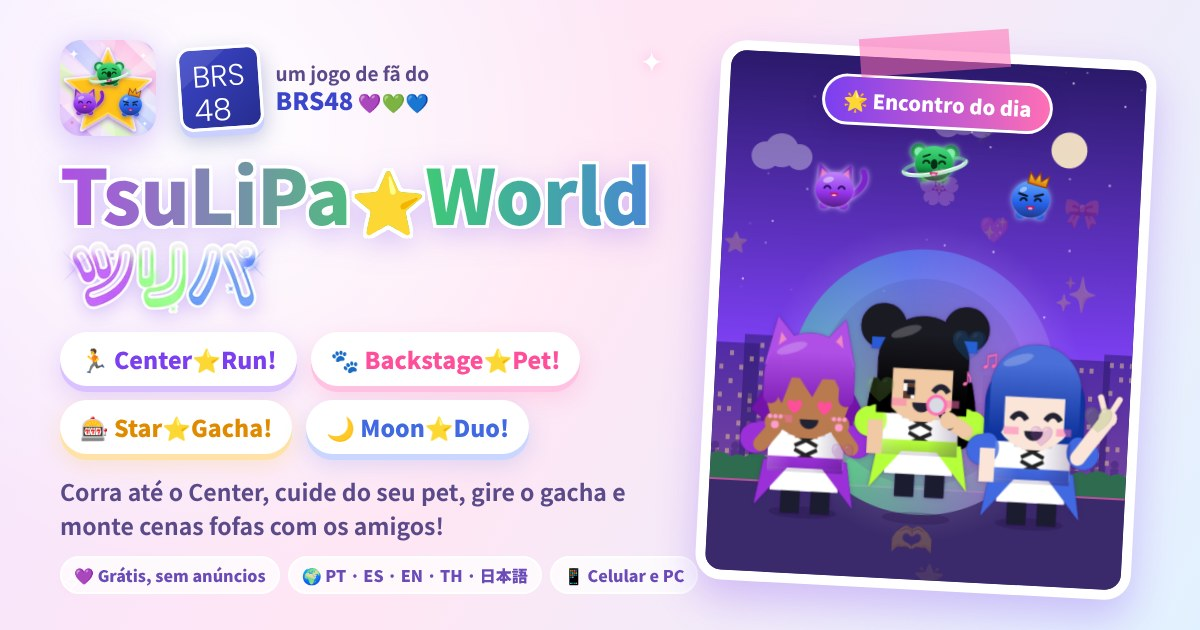
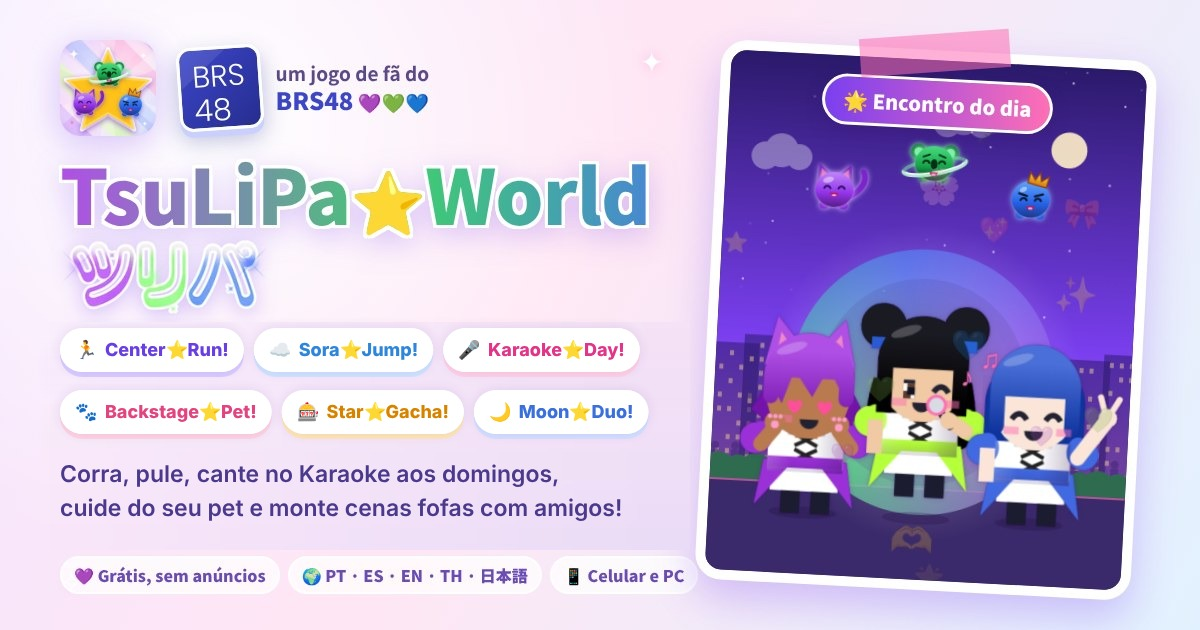
OG: estilo anterior com os 6 modos atuais
Claude-Session: https://claude.ai/code/session_01XGVFxJ3mBe4Ma5WA6JJQdv

Changed region(s): [[0.0308, 0.5127, 0.555, 0.8746]]

diff --git a/sora-jump.html b/sora-jump.html
@@ -23,14 +23,14 @@
 <meta property="og:title" content="TsuLiPa⭐World">
 <meta property="og:description" content="Corra no Center⭐Run!, pule no Sora⭐Jump!, cante no Karaoke⭐Day! ao vivo aos domingos, cuide do seu pet, gire o Star⭐Gacha! e monte cenas no Moon⭐Duo! Um jogo do TsuLiPa (BRS48).">
 <meta property="og:url" content="https://tsulipa-world.vercel.app/">
-<meta property="og:image" content="https://tsulipa-world.vercel.app/og.jpg?v=12">
+<meta property="og:image" content="https://tsulipa-world.vercel.app/og.jpg?v=13">
 <meta property="og:image:width" content="1200">
 <meta property="og:image:height" content="630">
 <meta property="og:locale" content="pt_BR">
 <meta name="twitter:card" content="summary_large_image">
 <meta name="twitter:title" content="TsuLiPa⭐World">
 <meta name="twitter:description" content="Corra, pule, cante e cuide do seu pet com o TsuLiPa: Center⭐Run!, Sora⭐Jump!, Karaoke⭐Day!, Backstage⭐Pet!, Star⭐Gacha! e Moon⭐Duo!">
-<meta name="twitter:image" content="https://tsulipa-world.vercel.app/og.jpg?v=12">
+<meta name="twitter:image" content="https://tsulipa-world.vercel.app/og.jpg?v=13">
 <link rel="manifest" href="manifest.json">
 <meta name="google-site-verification" content="J49ekjyq4BDr6eOcluPFBIOG14ahyJAs0NrObrKJqOs" />
 <title>TsuLiPa⭐World — Sora⭐Jump · Segredo do Disco Voador v19</title>

diff --git a/index.html b/index.html
@@ -23,14 +23,14 @@
 <meta property="og:title" content="TsuLiPa⭐World">
 <meta property="og:description" content="Corra no Center⭐Run!, pule no Sora⭐Jump!, cante no Karaoke⭐Day! ao vivo aos domingos, cuide do seu pet, gire o Star⭐Gacha! e monte cenas no Moon⭐Duo! Um jogo do TsuLiPa (BRS48).">
 <meta property="og:url" content="https://tsulipa-world.vercel.app/">
-<meta property="og:image" content="https://tsulipa-world.vercel.app/og.jpg?v=12">
+<meta property="og:image" content="https://tsulipa-world.vercel.app/og.jpg?v=13">
 <meta property="og:image:width" content="1200">
 <meta property="og:image:height" content="630">
 <meta property="og:locale" content="pt_BR">
 <meta name="twitter:card" content="summary_large_image">
 <meta name="twitter:title" content="TsuLiPa⭐World">
 <meta name="twitter:description" content="Corra, pule, cante e cuide do seu pet com o TsuLiPa: Center⭐Run!, Sora⭐Jump!, Karaoke⭐Day!, Backstage⭐Pet!, Star⭐Gacha! e Moon⭐Duo!">
-<meta name="twitter:image" content="https://tsulipa-world.vercel.app/og.jpg?v=12">
+<meta name="twitter:image" content="https://tsulipa-world.vercel.app/og.jpg?v=13">
 <link rel="manifest" href="manifest.json">
 <meta name="google-site-verification" content="J49ekjyq4BDr6eOcluPFBIOG14ahyJAs0NrObrKJqOs" />
 <title>TsuLiPa⭐World</title>

diff --git a/docs/STATUS.md b/docs/STATUS.md
@@ -44,7 +44,7 @@ Atualizado em 30/10/2026. Atualize este arquivo no mesmo envio de qualquer mudan
 - Banner: vozes reais do trio (5 falas cada, risada a cada duas falas); balão kawaii (um só contorno com rabinho, fonte Mochiy Pop One, ~3,5 s); pets do banner clicáveis com a vozinha de cada um.
 - Privacidade atualizada (30/10) em 5 idiomas: estilo do perfil, presença no Karaoke e vozes (sem microfone, sem gravação).
 
-- Descrições do link atualizadas com todos os modos (imagem og mantida a anterior, a pedido).
+- Descrições do link atualizadas com todos os modos ; imagem og no estilo anterior (trio no tema ZIPPER) com os 6 modos.
 - Trilha sonora: 31 faixas geradas no código (25 músicas diferentes), gravadas em MP3 fora do repositório.
 
 ## Falta antes do merge
